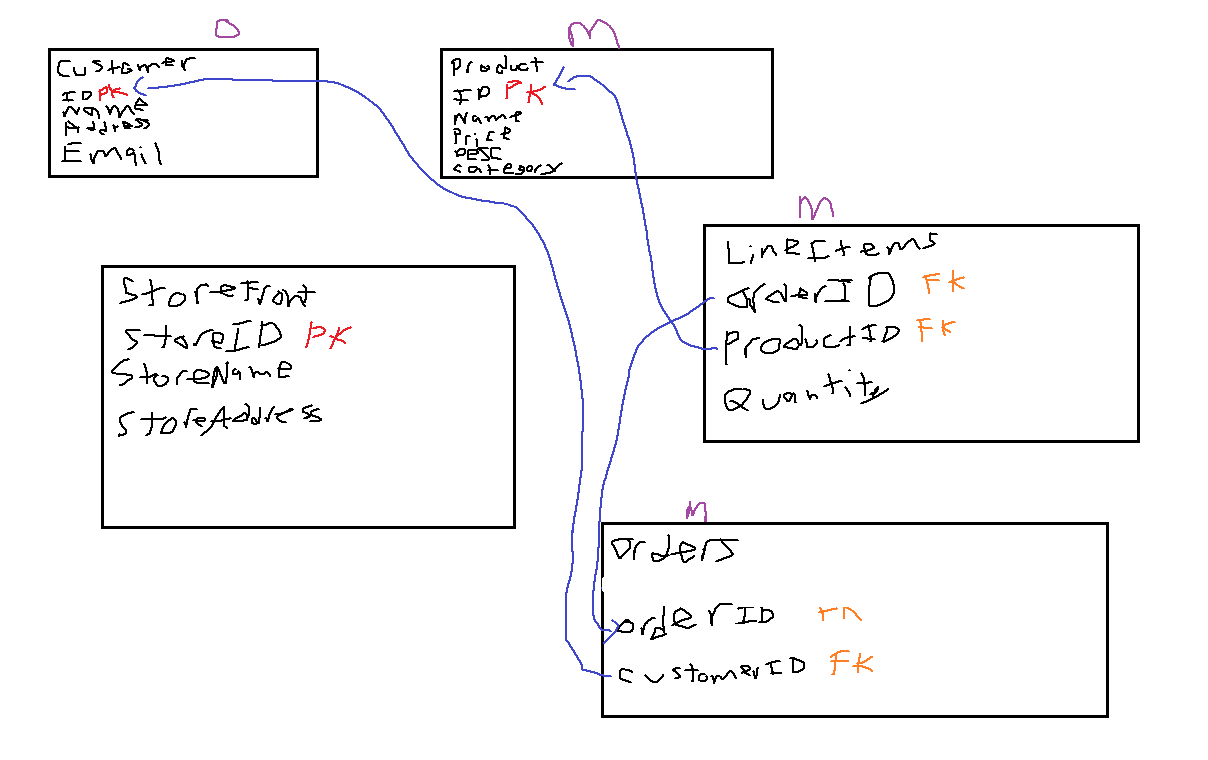
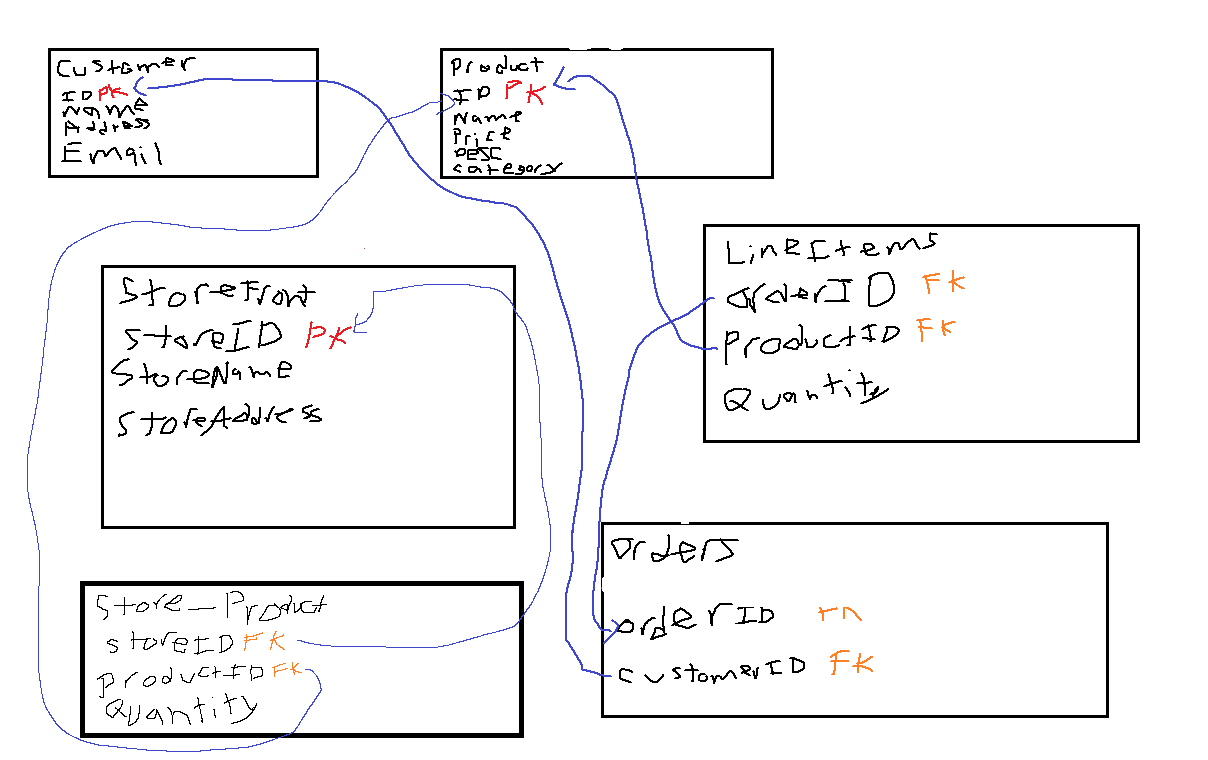
changed erdiagram, and updated repositories for sql statements

Changed region(s): [[0.0613, 0.7566, 0.4594, 0.9987], [0.5513, 0.6658, 0.582, 0.6961], [0.4594, 0.0303, 0.4901, 0.0605]]

diff --git a/PlanetPaintballDL/Repository.cs b/PlanetPaintballDL/Repository.cs
@@ -1,60 +1,60 @@
-using System.Text.Json;
-using PPModel;
+// using System.Text.Json;
+// using PPModel;
 
-namespace PPDL
-{
+// namespace PPDL
+// {
 
-    public class Repository : IRepository
-    {
-
-
-        private string _filepath = "../PlanetPaintballDL/Database/";
-        private string _jsonString;
+//     public class Repository : IRepository
+//     {
 
 
-        public Customer AddCustomer(Customer p_customer)
-        {
+//         private string _filepath = "../PlanetPaintballDL/Database/";
+//         private string _jsonString;
 
-            string path = _filepath + "PlanetPaintballCustomer.json";
+
+//         public Customer AddCustomer(Customer p_customer)
+//         {
+
+//             string path = _filepath + "PlanetPaintballCustomer.json";
             
-                List<Customer> listOfCustomers = GetAllCustomers();
-                listOfCustomers.Add(p_customer);
+//                 List<Customer> listOfCustomers = GetAllCustomers();
+//                 listOfCustomers.Add(p_customer);
             
-                _jsonString = JsonSerializer.Serialize(listOfCustomers, new JsonSerializerOptions {WriteIndented = true});
+//                 _jsonString = JsonSerializer.Serialize(listOfCustomers, new JsonSerializerOptions {WriteIndented = true});
 
-                File.WriteAllText(path, _jsonString);
+//                 File.WriteAllText(path, _jsonString);
             
-            return p_customer;
+//             return p_customer;
 
-        }
+//         }
 
-        public List<Customer> GetAllCustomers()
-        {
+//         public List<Customer> GetAllCustomers()
+//         {
 
-            _jsonString = File.ReadAllText(_filepath + "PlanetPaintballCustomer.json");
+//             _jsonString = File.ReadAllText(_filepath + "PlanetPaintballCustomer.json");
 
-            return JsonSerializer.Deserialize<List<Customer>>(_jsonString);
+//             return JsonSerializer.Deserialize<List<Customer>>(_jsonString);
 
-        }
+//         }
 
-        public Customer SearchCustomer(Customer p_customer)
-        {
+//         public Customer SearchCustomer(Customer p_customer)
+//         {
 
-            List<Customer> listOfCustomers = GetAllCustomers();
-            return p_customer;
+//             List<Customer> listOfCustomers = GetAllCustomers();
+//             return p_customer;
 
-        }
+//         }
 
 
-        public List<StoreFront> GetStoreFronts()
-        {
+//         public List<StoreFront> GetStoreFronts()
+//         {
 
-            _jsonString = File.ReadAllText(_filepath + "PlanetPaintballInventory.json");
+//             _jsonString = File.ReadAllText(_filepath + "PlanetPaintballInventory.json");
 
-            return JsonSerializer.Deserialize<List<StoreFront>>(_jsonString);
+//             return JsonSerializer.Deserialize<List<StoreFront>>(_jsonString);
 
-        }
+//         }
 
-    }
+//     }
 
-}
+// }

diff --git a/PlanetPaintballDL/SQLRepository.cs b/PlanetPaintballDL/SQLRepository.cs
@@ -113,7 +113,16 @@ namespace PPDL
 
         public Customer SearchCustomer(Customer p_customer)
         {
-            throw new NotImplementedException();
+            return p_customer;
+        }
+
+        List<Products> IRepository.GetProductsByStoreAddress(string p_address)
+        {
+            List<Products> listOfProducts = new List<Products>();
+
+            string sqlQuery = @"";
+
+            return listOfProducts;
         }
     }
 }

diff --git a/PlanetPaintballDL/IRepository.cs b/PlanetPaintballDL/IRepository.cs
@@ -38,7 +38,12 @@ namespace PPDL
         /// <returns>collection of store objects</returns>
         List<StoreFront> GetStoreFronts();
 
-        
+        /// <summary>
+        /// will get all the products that the store has
+        /// </summary>
+        /// <param name="p_address"></param>
+        /// <returns>collection of products</returns>
+        List<Products> GetProductsByStoreAddress(string p_address);
 
     }
 
